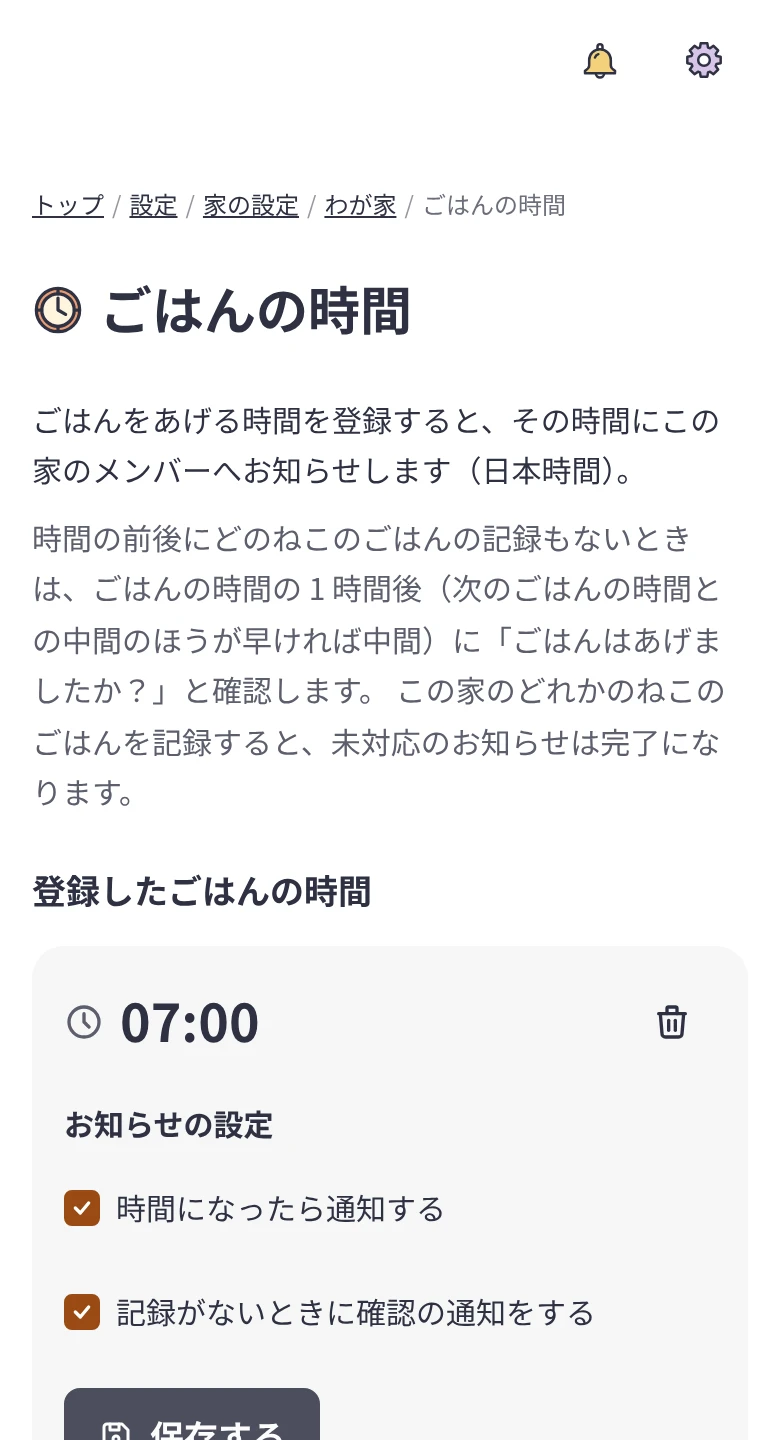
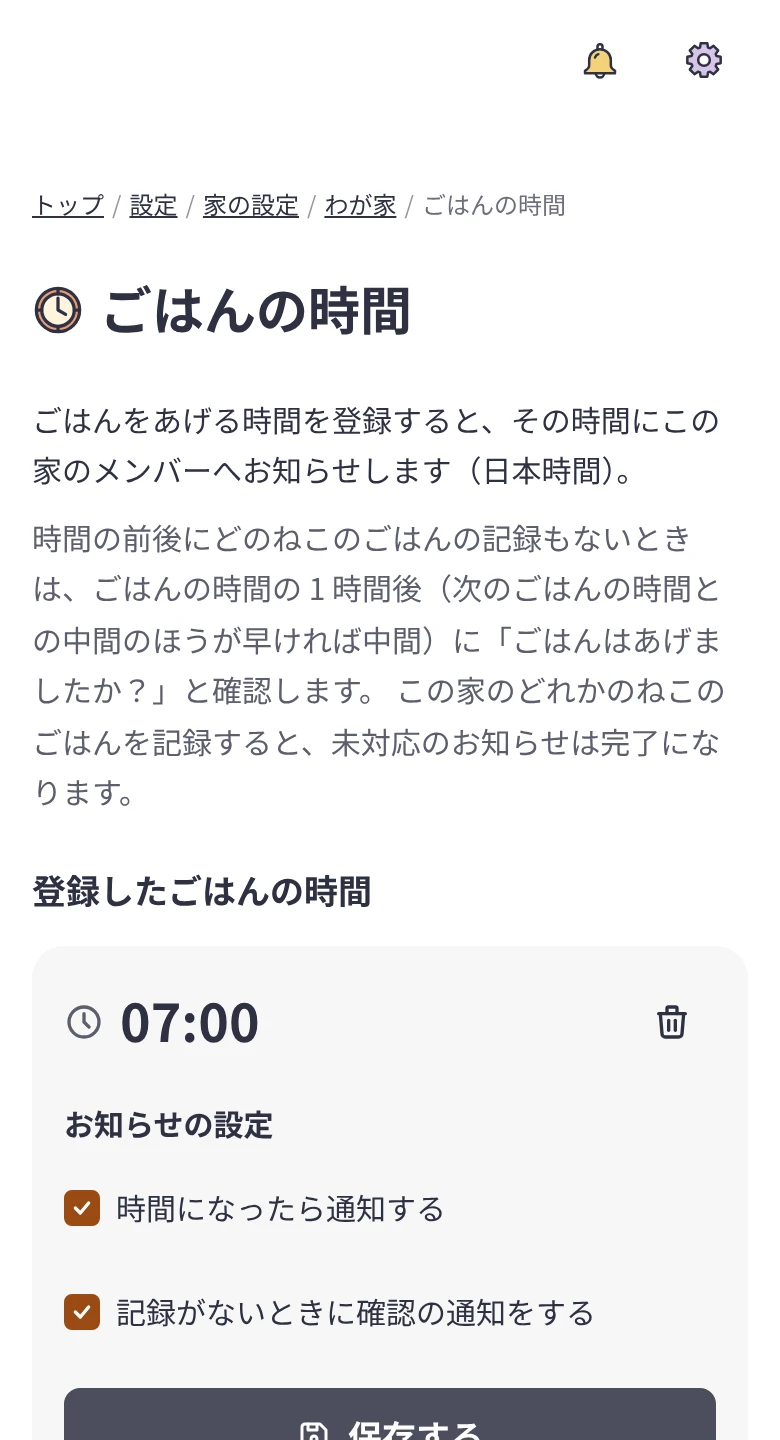
保存ボタンを横長にそろえる
- プロフィールの編集・AI との接続の許可する範囲・家の作成と家の名前・
  ごはんの時間のフォームで、送信ボタンを記録のフォームと同じく横長にする
- 保存結果を読み上げる領域が空のときに、ボタンの下へ余白ができないようにする
- ヘルプのスクリーンショット（家の作成・家の詳細・ごはんの時間）を撮り直す

Closes #629

Claude-Session: https://claude.ai/code/session_01GXATviM4J5cZGxMUYydJGs

Changed region(s): [[0.1846, 0.9375, 0.9231, 1.0], [0.1231, 0.9688, 0.1538, 1.0]]

diff --git a/src/features/feeding-schedules/presentation/FeedingScheduleForm.module.css b/src/features/feeding-schedules/presentation/FeedingScheduleForm.module.css
@@ -22,14 +22,21 @@
   font-weight: var(--font-weight-bold);
 }
 
+/* 保存ボタンは、ほかのフォームと同じく横長にする */
 .footer {
   display: flex;
-  flex-wrap: wrap;
-  align-items: center;
-  gap: var(--space-3);
+  flex-direction: column;
 }
 
+/*
+ * 保存の結果を読み上げる領域は常に置いておき、文言があるときだけボタンとの間を空ける
+ * （gap にすると、空のときもボタンの下に余白ができる）
+ */
 .message {
   color: var(--color-ink-muted);
   font-size: var(--text-sm);
+}
+
+.message:not(:empty) {
+  margin-top: var(--space-3);
 }

diff --git a/src/features/households/presentation/HouseholdNameForm.module.css b/src/features/households/presentation/HouseholdNameForm.module.css
@@ -4,14 +4,21 @@
   gap: var(--space-4);
 }
 
+/* 保存ボタンは、ほかのフォームと同じく横長にする */
 .footer {
   display: flex;
-  flex-wrap: wrap;
-  align-items: center;
-  gap: var(--space-3);
+  flex-direction: column;
 }
 
+/*
+ * 保存の結果を読み上げる領域は常に置いておき、文言があるときだけボタンとの間を空ける
+ * （gap にすると、空のときもボタンの下に余白ができる）
+ */
 .message {
   color: var(--color-ink-muted);
   font-size: var(--text-sm);
+}
+
+.message:not(:empty) {
+  margin-top: var(--space-3);
 }

diff --git a/src/features/mcp/presentation/McpPermissionsForm.module.css b/src/features/mcp/presentation/McpPermissionsForm.module.css
@@ -4,13 +4,8 @@
   gap: var(--space-4);
 }
 
+/* 保存ボタンは、ほかのフォームと同じく横長にする */
 .actions {
   display: flex;
-  justify-content: flex-end;
-}
-
-@media (max-width: 600px) {
-  .actions > button {
-    width: 100%;
-  }
+  flex-direction: column;
 }

diff --git a/src/features/users/presentation/UserProfileForm.module.css b/src/features/users/presentation/UserProfileForm.module.css
@@ -9,9 +9,9 @@
   font-size: var(--text-sm);
 }
 
+/* 保存ボタンは、ほかのフォームと同じく横長にする */
 .footer {
   display: flex;
-  flex-wrap: wrap;
-  align-items: center;
+  flex-direction: column;
   gap: var(--space-3);
 }
